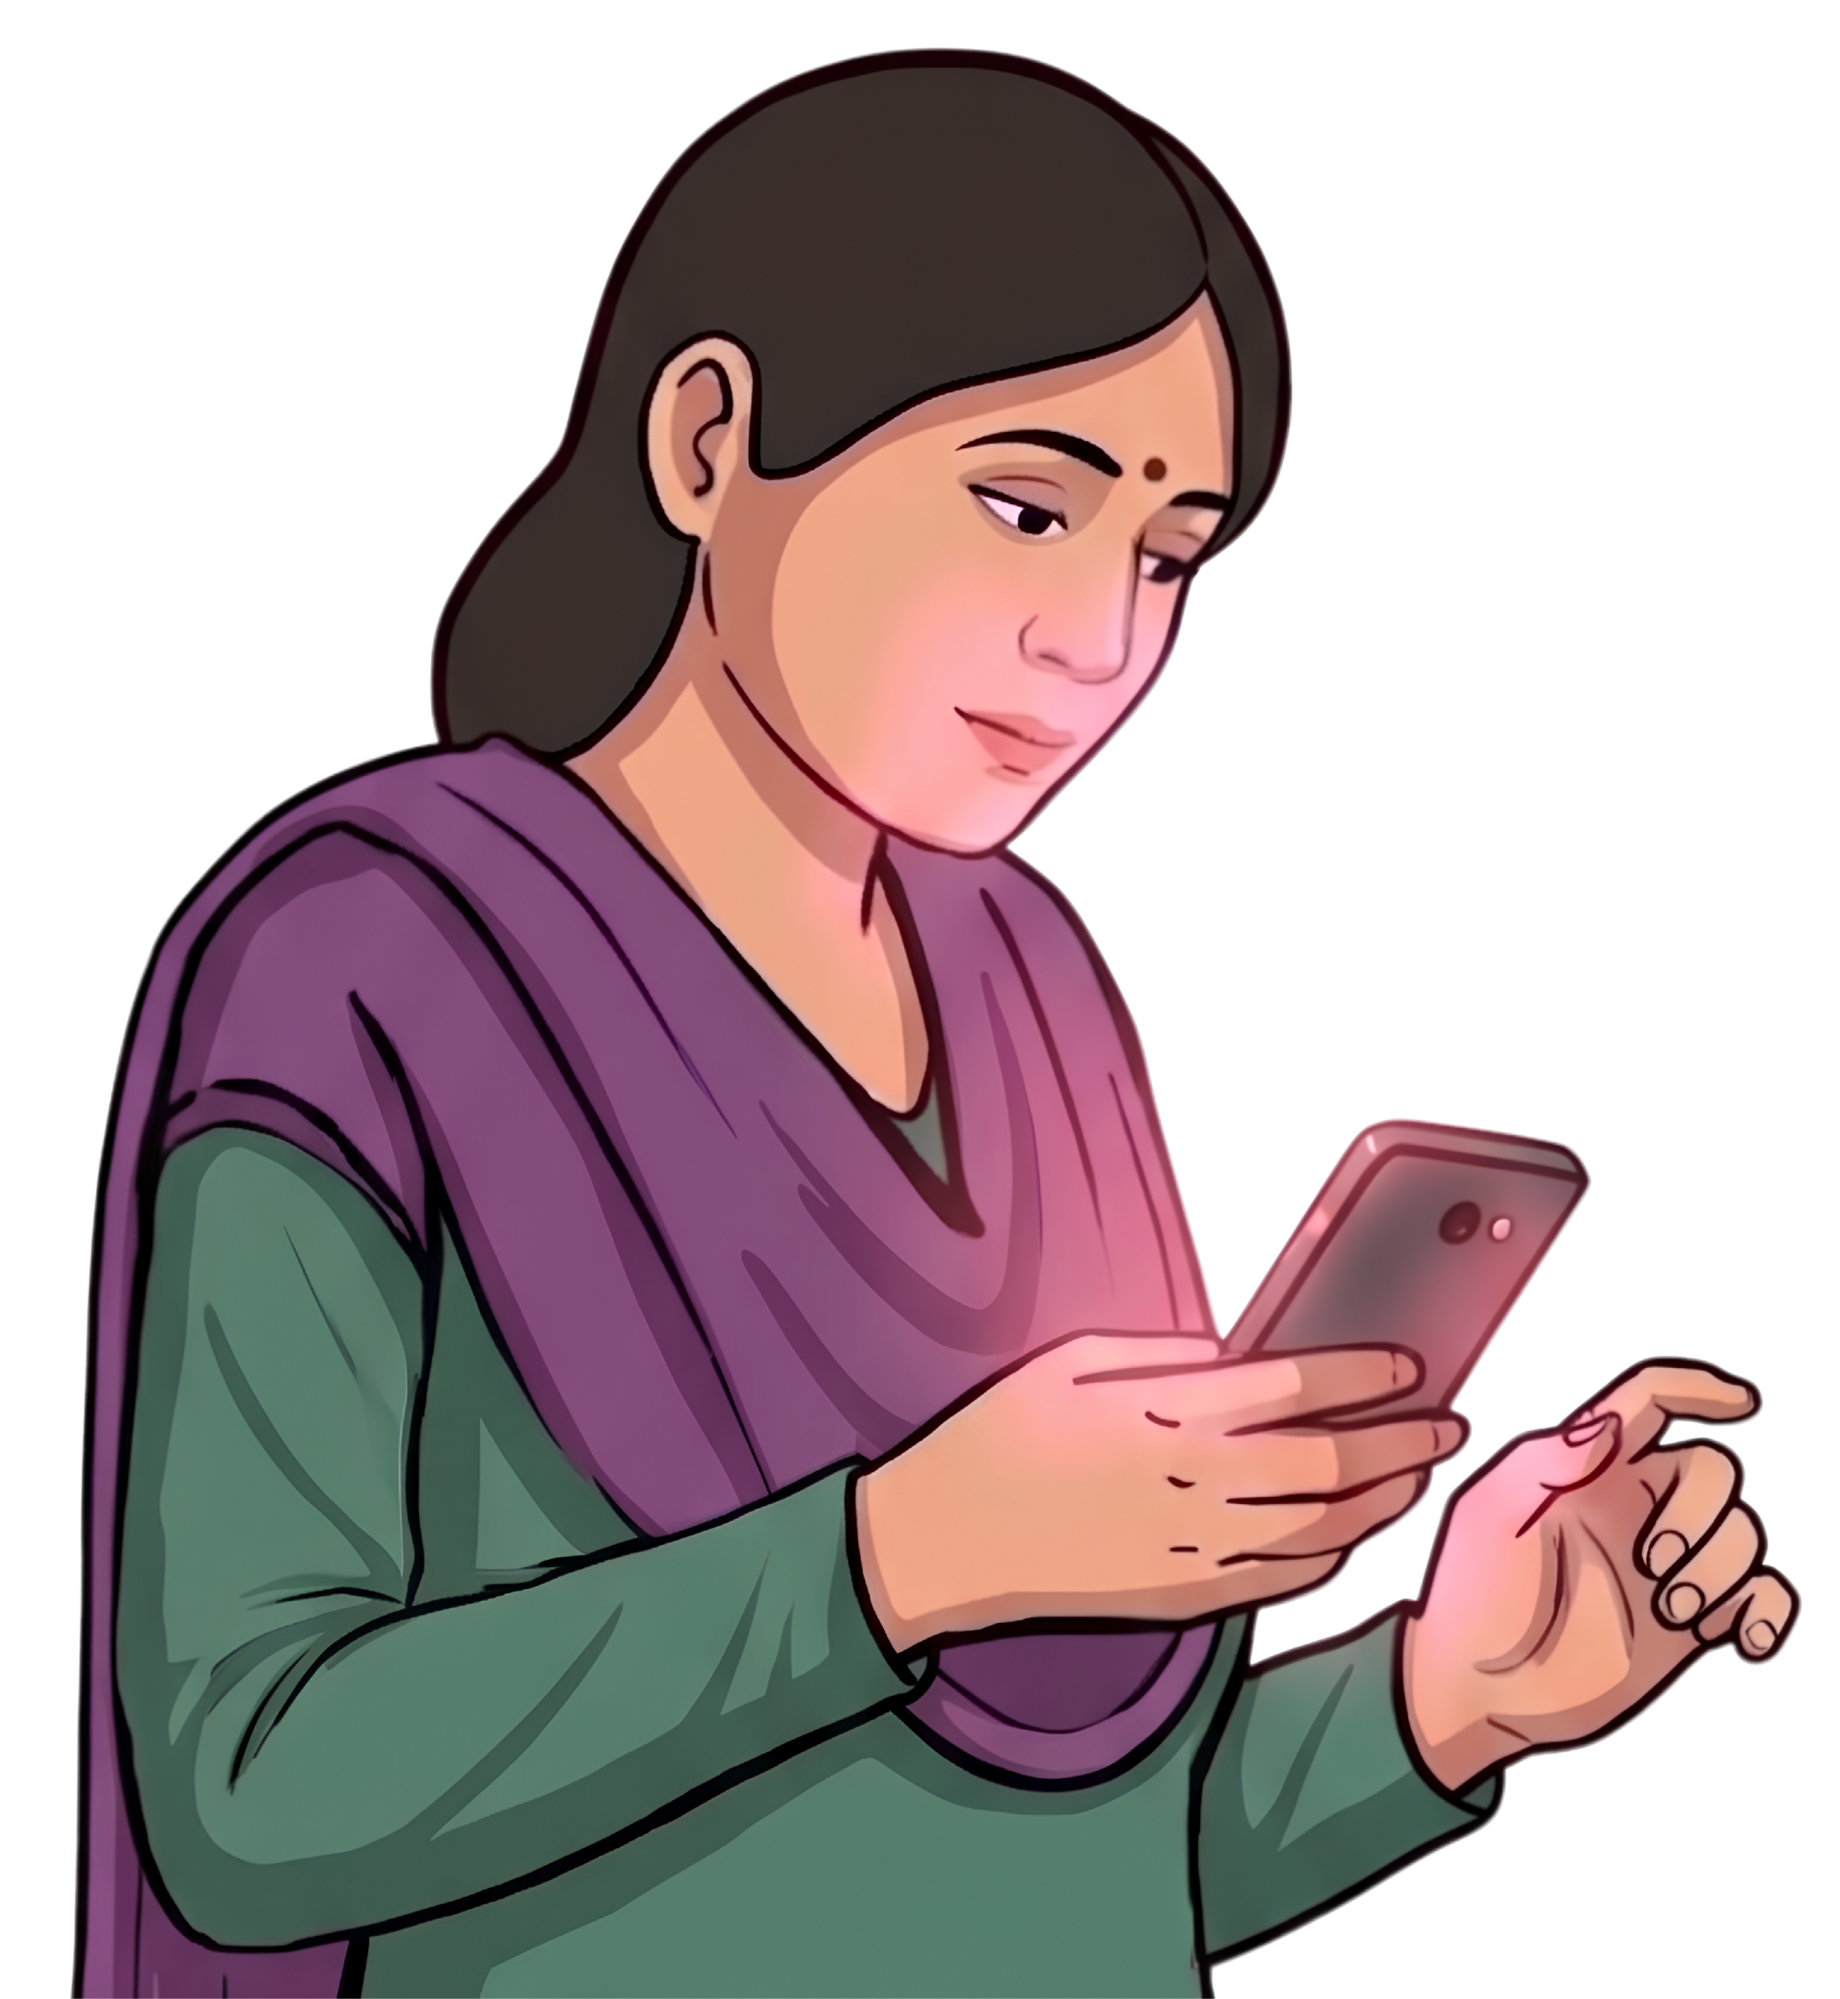
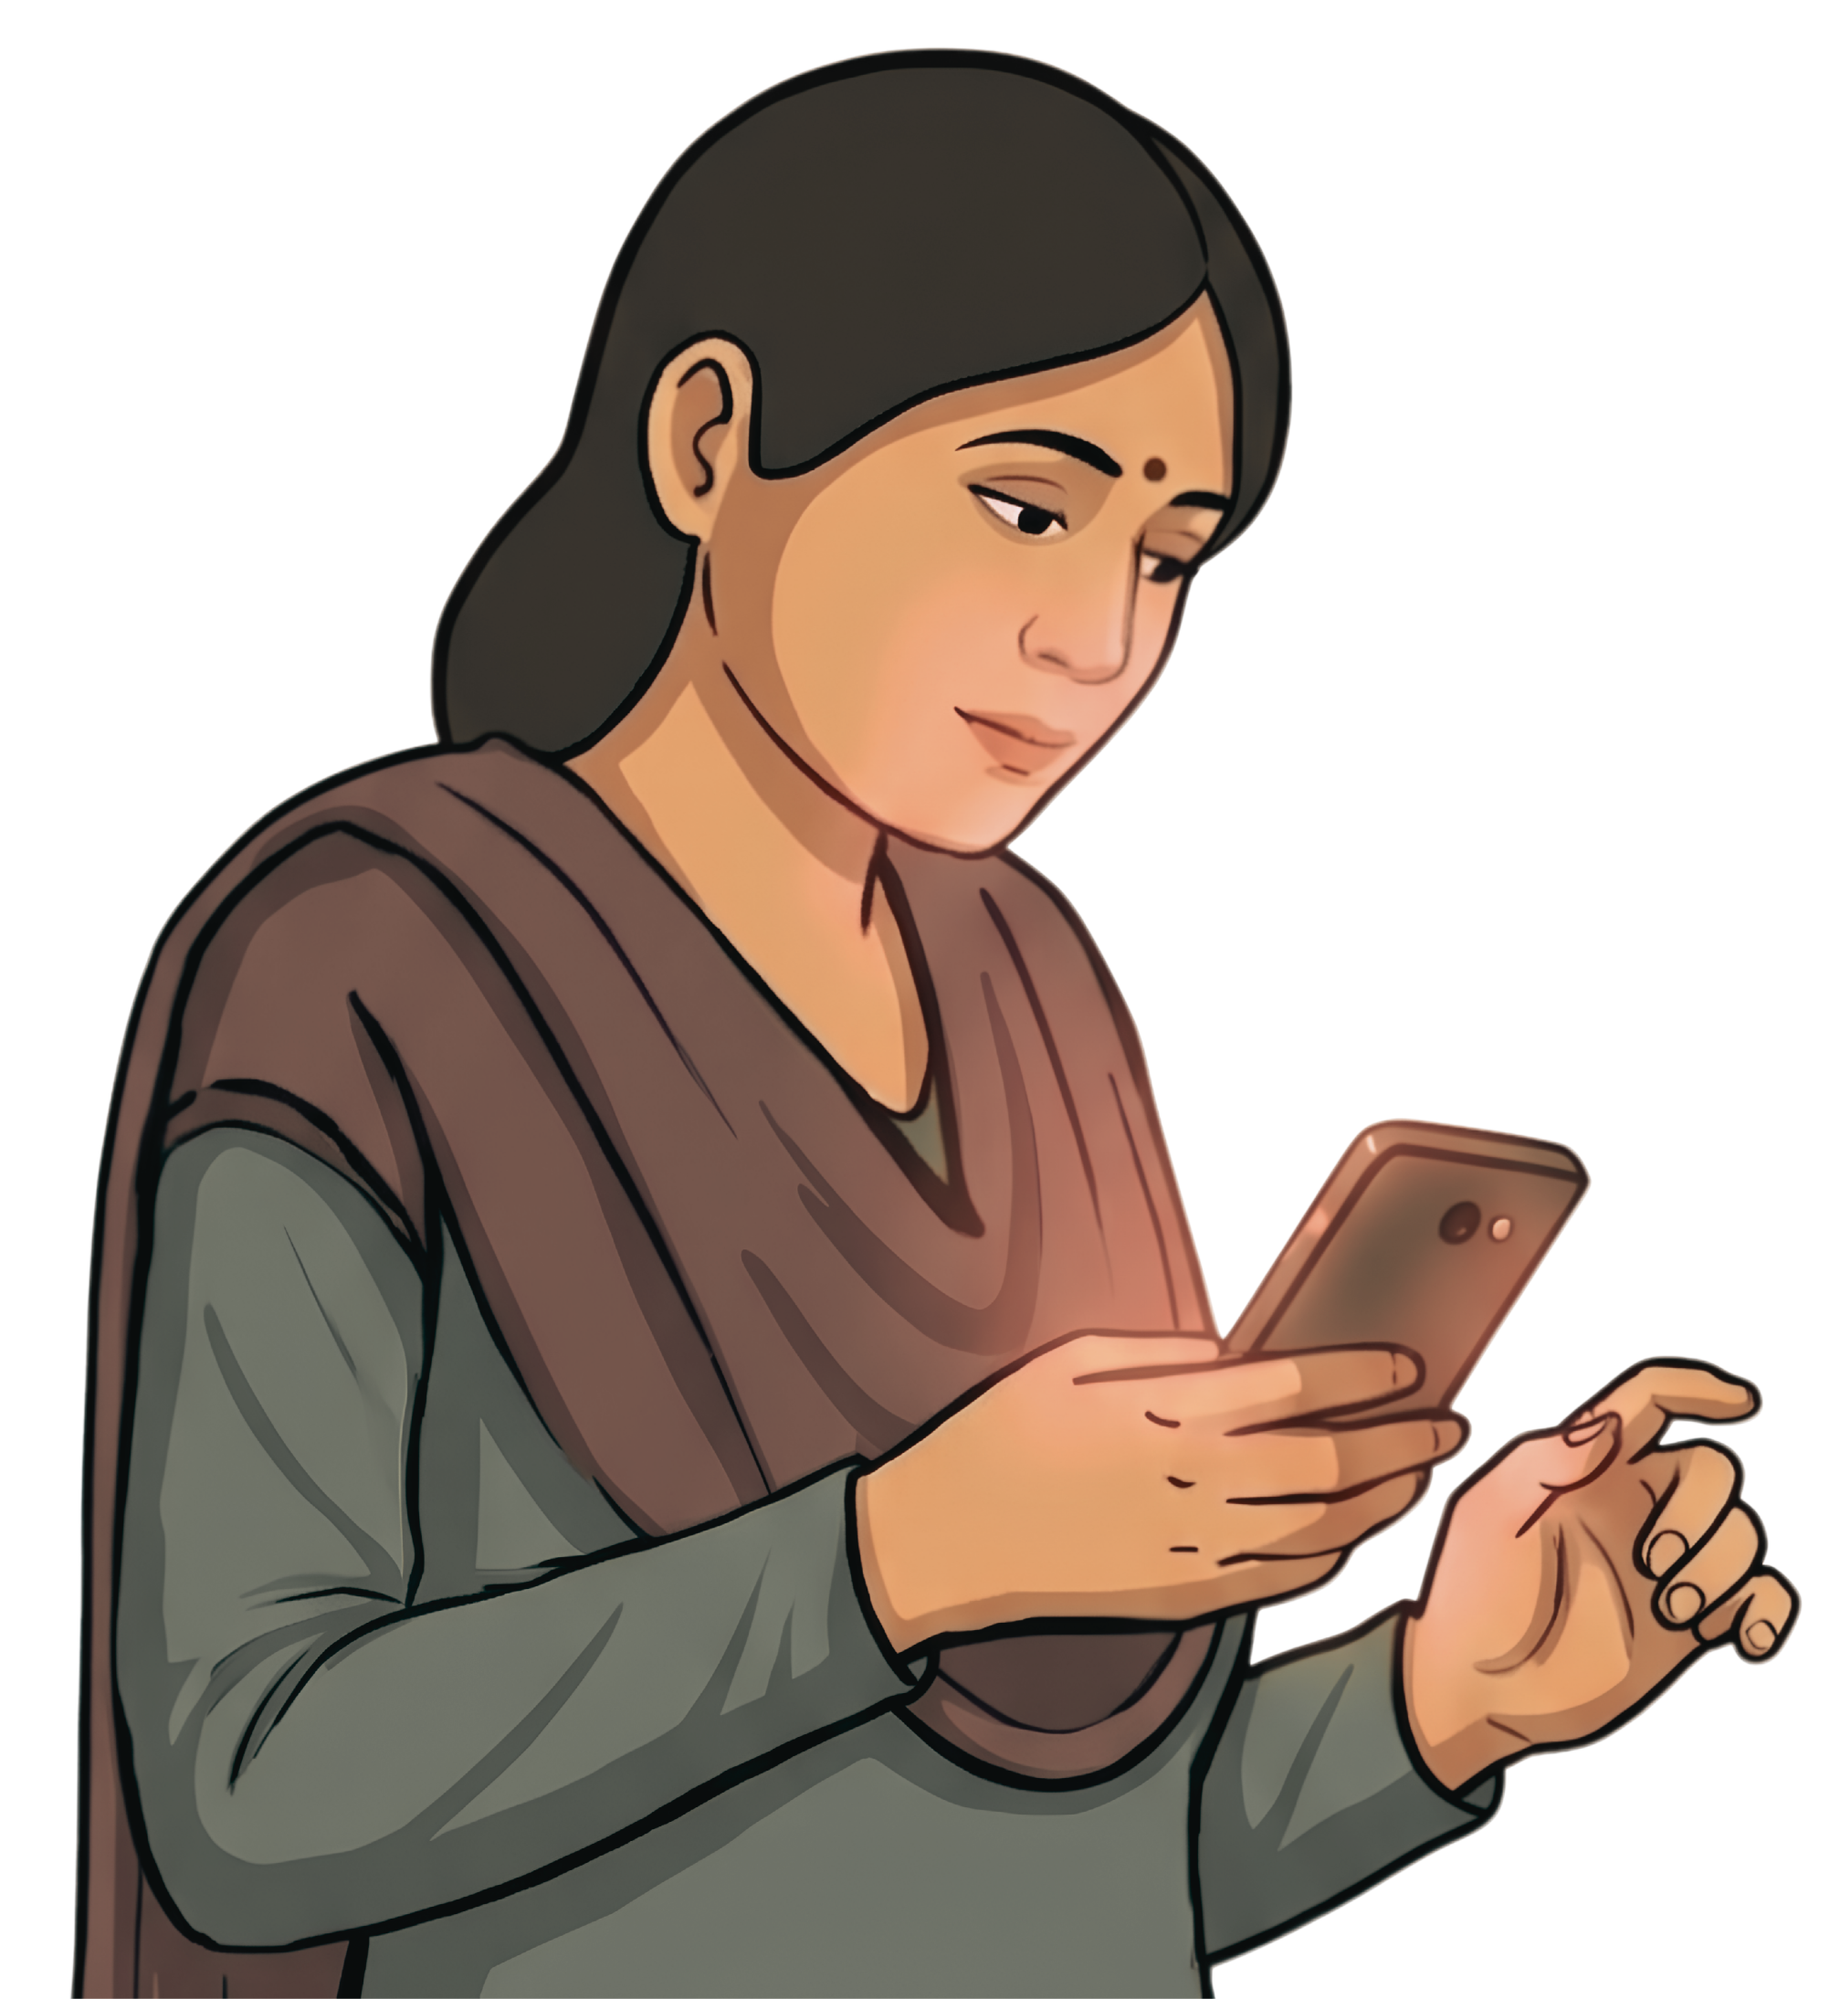
polish: soft scrim edge, softer nav ground, the wall on white, detail proportions, the sliding row on mobile, placeholder gone

Changed region(s): [[0.0308, 0.1553, 0.9846, 1.0], [0.1538, 0.6213, 0.1846, 0.6524]]

diff --git a/web/src/styles/base.css b/web/src/styles/base.css
@@ -200,10 +200,10 @@ a:hover {
    The ONLY sanctioned way text sits on an image anywhere in web/.
 
    The contract: the scrim is at full strength across the whole
-   text block and fades only ABOVE it, over --scrim-fade. Apply
-   this to the TEXT BLOCK, never to a whole container — a gradient
-   already fading behind the top line of a caption is exactly how
-   the prototype's hero captions vanished into sand.
+   text block (plus --scrim-bleed) and fades only OUTSIDE it, over
+   --scrim-feather. Apply this to the TEXT BLOCK, never to a whole
+   container — a gradient already fading behind the top line of a
+   caption is exactly how the prototype's hero captions vanished.
 
    `isolation: isolate` keeps the negative z-index pseudo-element
    behind the text but in front of the photograph, without needing
@@ -217,9 +217,13 @@ a:hover {
 .on-photo::before {
   content: '';
   position: absolute;
-  inset: calc(-1 * var(--scrim-fade)) calc(-1 * var(--scrim-bleed))
-    calc(-1 * var(--scrim-bleed));
-  background: var(--scrim);
+  inset: calc(-1 * var(--scrim-bleed));
+  background: var(--scrim-color);
+  border-radius: var(--r-lg);
+  /* The feather: a blurred shadow in the scrim's own colour, so the
+     edge fades over --scrim-feather instead of stopping. Static, so
+     it costs nothing per frame. */
+  box-shadow: 0 0 var(--scrim-feather) calc(var(--scrim-feather) / 2) var(--scrim-color);
   z-index: -1;
   pointer-events: none;
 }

diff --git a/web/src/styles/tokens.css b/web/src/styles/tokens.css
@@ -199,19 +199,20 @@
      photograph that can exist.
 
      The CONTRACT matters more than the number: the scrim is at
-     full strength across the whole text block and fades only
-     ABOVE it. A gradient already fading behind the top line of a
-     caption is exactly how the prototype's captions vanished.  */
+     full strength across the whole text block, and fades only
+     OUTSIDE it. A gradient already fading behind the top line of a
+     caption is exactly how the prototype's captions vanished.
+
+     2026-09-20: the hard-edged box read as harsh (Nahian). The
+     ground is now a soft-edged rectangle: full strength over the
+     text block plus --scrim-bleed on every side, then feathered out
+     over --scrim-feather. The number and the contract are unchanged;
+     only the edge is.  */
   --scrim-strength: 0.62;
-  --scrim-fade: 6rem;
   --scrim-bleed: var(--s-6);
+  --scrim-feather: 5rem;
   --scrim-ink: var(--on-night);
-  --scrim: linear-gradient(
-    to top,
-    rgb(0 0 0 / var(--scrim-strength)) 0,
-    rgb(0 0 0 / var(--scrim-strength)) calc(100% - var(--scrim-fade)),
-    rgb(0 0 0 / 0) 100%
-  );
+  --scrim-color: rgb(0 0 0 / var(--scrim-strength));
 
   /* ---- recede (design language Rule 4) ----
      When one thing is the subject, everything else quietly steps

diff --git a/web/src/lib/services-detail.ts b/web/src/lib/services-detail.ts
@@ -69,6 +69,33 @@ export function initServicesDetail() {
   }
 
   cells.forEach((c, i) => c.addEventListener('click', () => select(i)));
+  /* On a phone the sixteen are a row that slides: settling picks the
+     item nearest the centre. */
+  if (gridIn) {
+    let t: number | null = null;
+    gridIn.addEventListener(
+      'scroll',
+      () => {
+        if (!isPhone()) return;
+        if (t) clearTimeout(t);
+        t = window.setTimeout(() => {
+          const mid = gridIn.getBoundingClientRect().left + gridIn.clientWidth / 2;
+          let best = 0;
+          let bd = Infinity;
+          cells.forEach((c, k) => {
+            const r = c.getBoundingClientRect();
+            const d = Math.abs(r.left + r.width / 2 - mid);
+            if (d < bd) {
+              bd = d;
+              best = k;
+            }
+          });
+          select(best);
+        }, 120);
+      },
+      { passive: true },
+    );
+  }
   measure();
   window.addEventListener('resize', measure);
   window.addEventListener('load', measure);

diff --git a/PROGRESS.md b/PROGRESS.md
@@ -603,3 +603,27 @@ none on the subject; no cutout transform mid-segment.
 about its bottom-centre, height from the box's own CSS aspect — from the
 panel's `w`, shift-drag, or `[` / `]` (shift ×10). Measured: feet drift
 0 / −0.1px across a 0.10 → 0.13 → 0.12 resize.
+
+## Nitty-gritty pass — 2026-09-20 (Fable)
+
+Nahian's list after a full scroll: the wall on white; the detail grid
+smaller and further from the copy; the sliding row back on mobile; the
+placeholder block gone; a softer ground under the transparent nav; the
+hero copies' ground softer.
+- `.on-photo` is now a soft-edged rectangle: full strength (0.62, the
+  derived contract) over the text block + `--scrim-bleed` (2rem), then a
+  static blurred shadow in the scrim's own colour feathers the edge over
+  `--scrim-feather` (5rem). One rule, every section.
+- The nav's `::before` reaches 8rem below the band with an eased stop
+  list (55 → 40 → 18 → 0%).
+- The wall: `--paper` ground, `--paper-2` tiles, the title tile night on
+  paper; the `[data-nav-dark-end]` marker removed (the nav is solid
+  through the section).
+- `ServicesDetail`: columns 1fr/1fr, gap `--s-10` (544px columns and
+  128px at 1920); on a phone the sixteen are the 56px sliding row again,
+  snap to item, a settle selects the nearest (measured: scrolling to
+  item 5 selected 5; no page overflow at 390).
+- `index.astro`: the "Next: the people" block is gone.
+- **Open — Nahian's call:** where the hero copies sit (headline top-right
+  in the sky, captions bottom-left). Two alternatives offered in
+  conversation.
